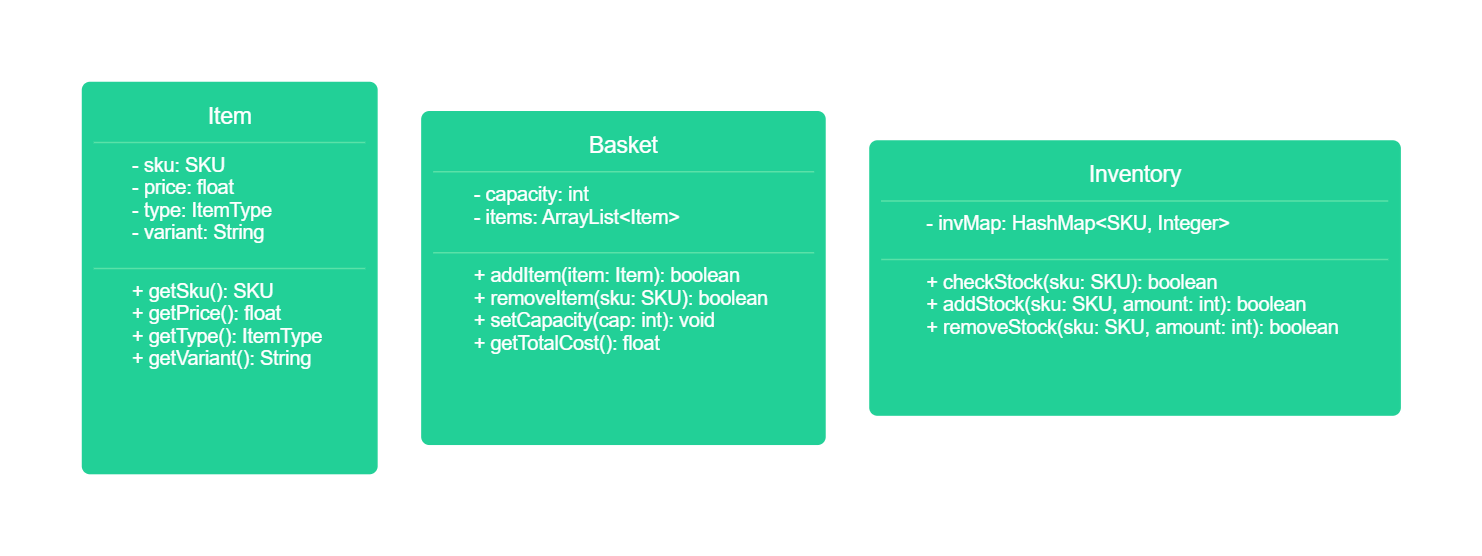
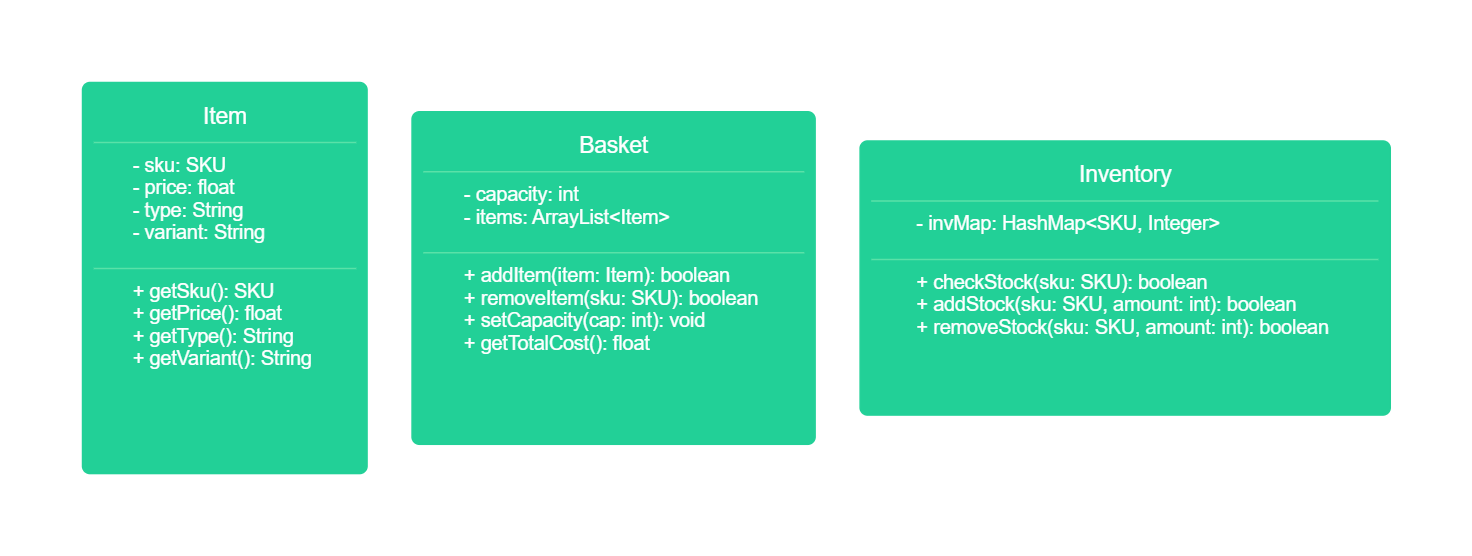
changed type to be String

diff --git a/src/main/java/com/booleanuk/core/Item.java b/src/main/java/com/booleanuk/core/Item.java
@@ -3,10 +3,17 @@ package com.booleanuk.core;
 public class Item {
     private SKU sku;
     private float price;
-    private ItemType type;
+    private String type;
     private String variant;
 
     public Item(SKU sku) {
         this.sku = sku;
+
+        // set price, type and variant based on sku
+        if (sku == SKU.BGLO) {
+            price = 0.49f;
+            type = "Bagel";
+            variant = "Onion";
+        } 
     }
 }
